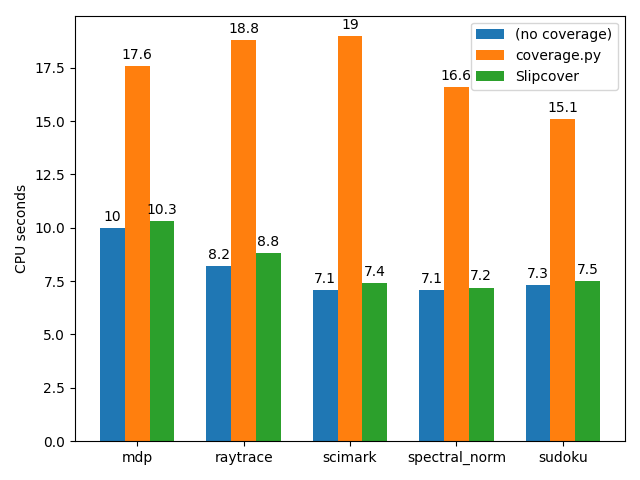
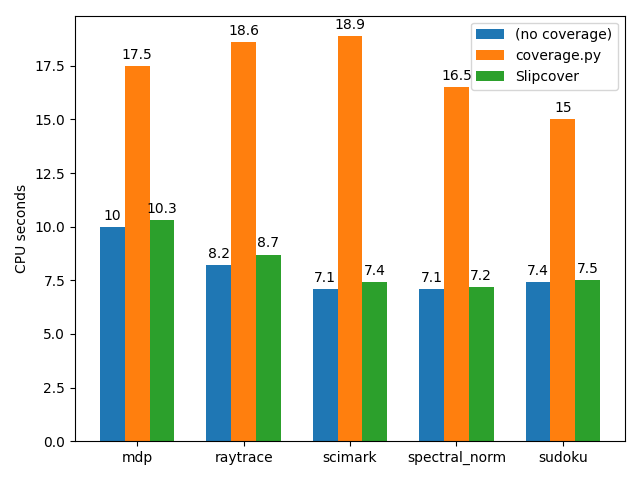
- updated Linux benchmarks and README since last changes;

diff --git a/README.md b/README.md
@@ -39,8 +39,8 @@ tracking, tracking coverage using [coverage.py](https://github.com/nedbat/covera
 and tracking coverage using Slipcover.
 While each program's structure can affect Slipcover's ability to de-instrument,
 its running time stays relatively close to the original;
-coverage.py incurs between 76% and 166% overhead, while
-Slipcover's stays between 2% and 7%.
+coverage.py incurs between 76% and 167% overhead, while
+Slipcover's stays between 2% and 6%.
 
 Most sample programs were derived from the
 [Python Benchmark Suite](https://github.com/python/pyperformance);
